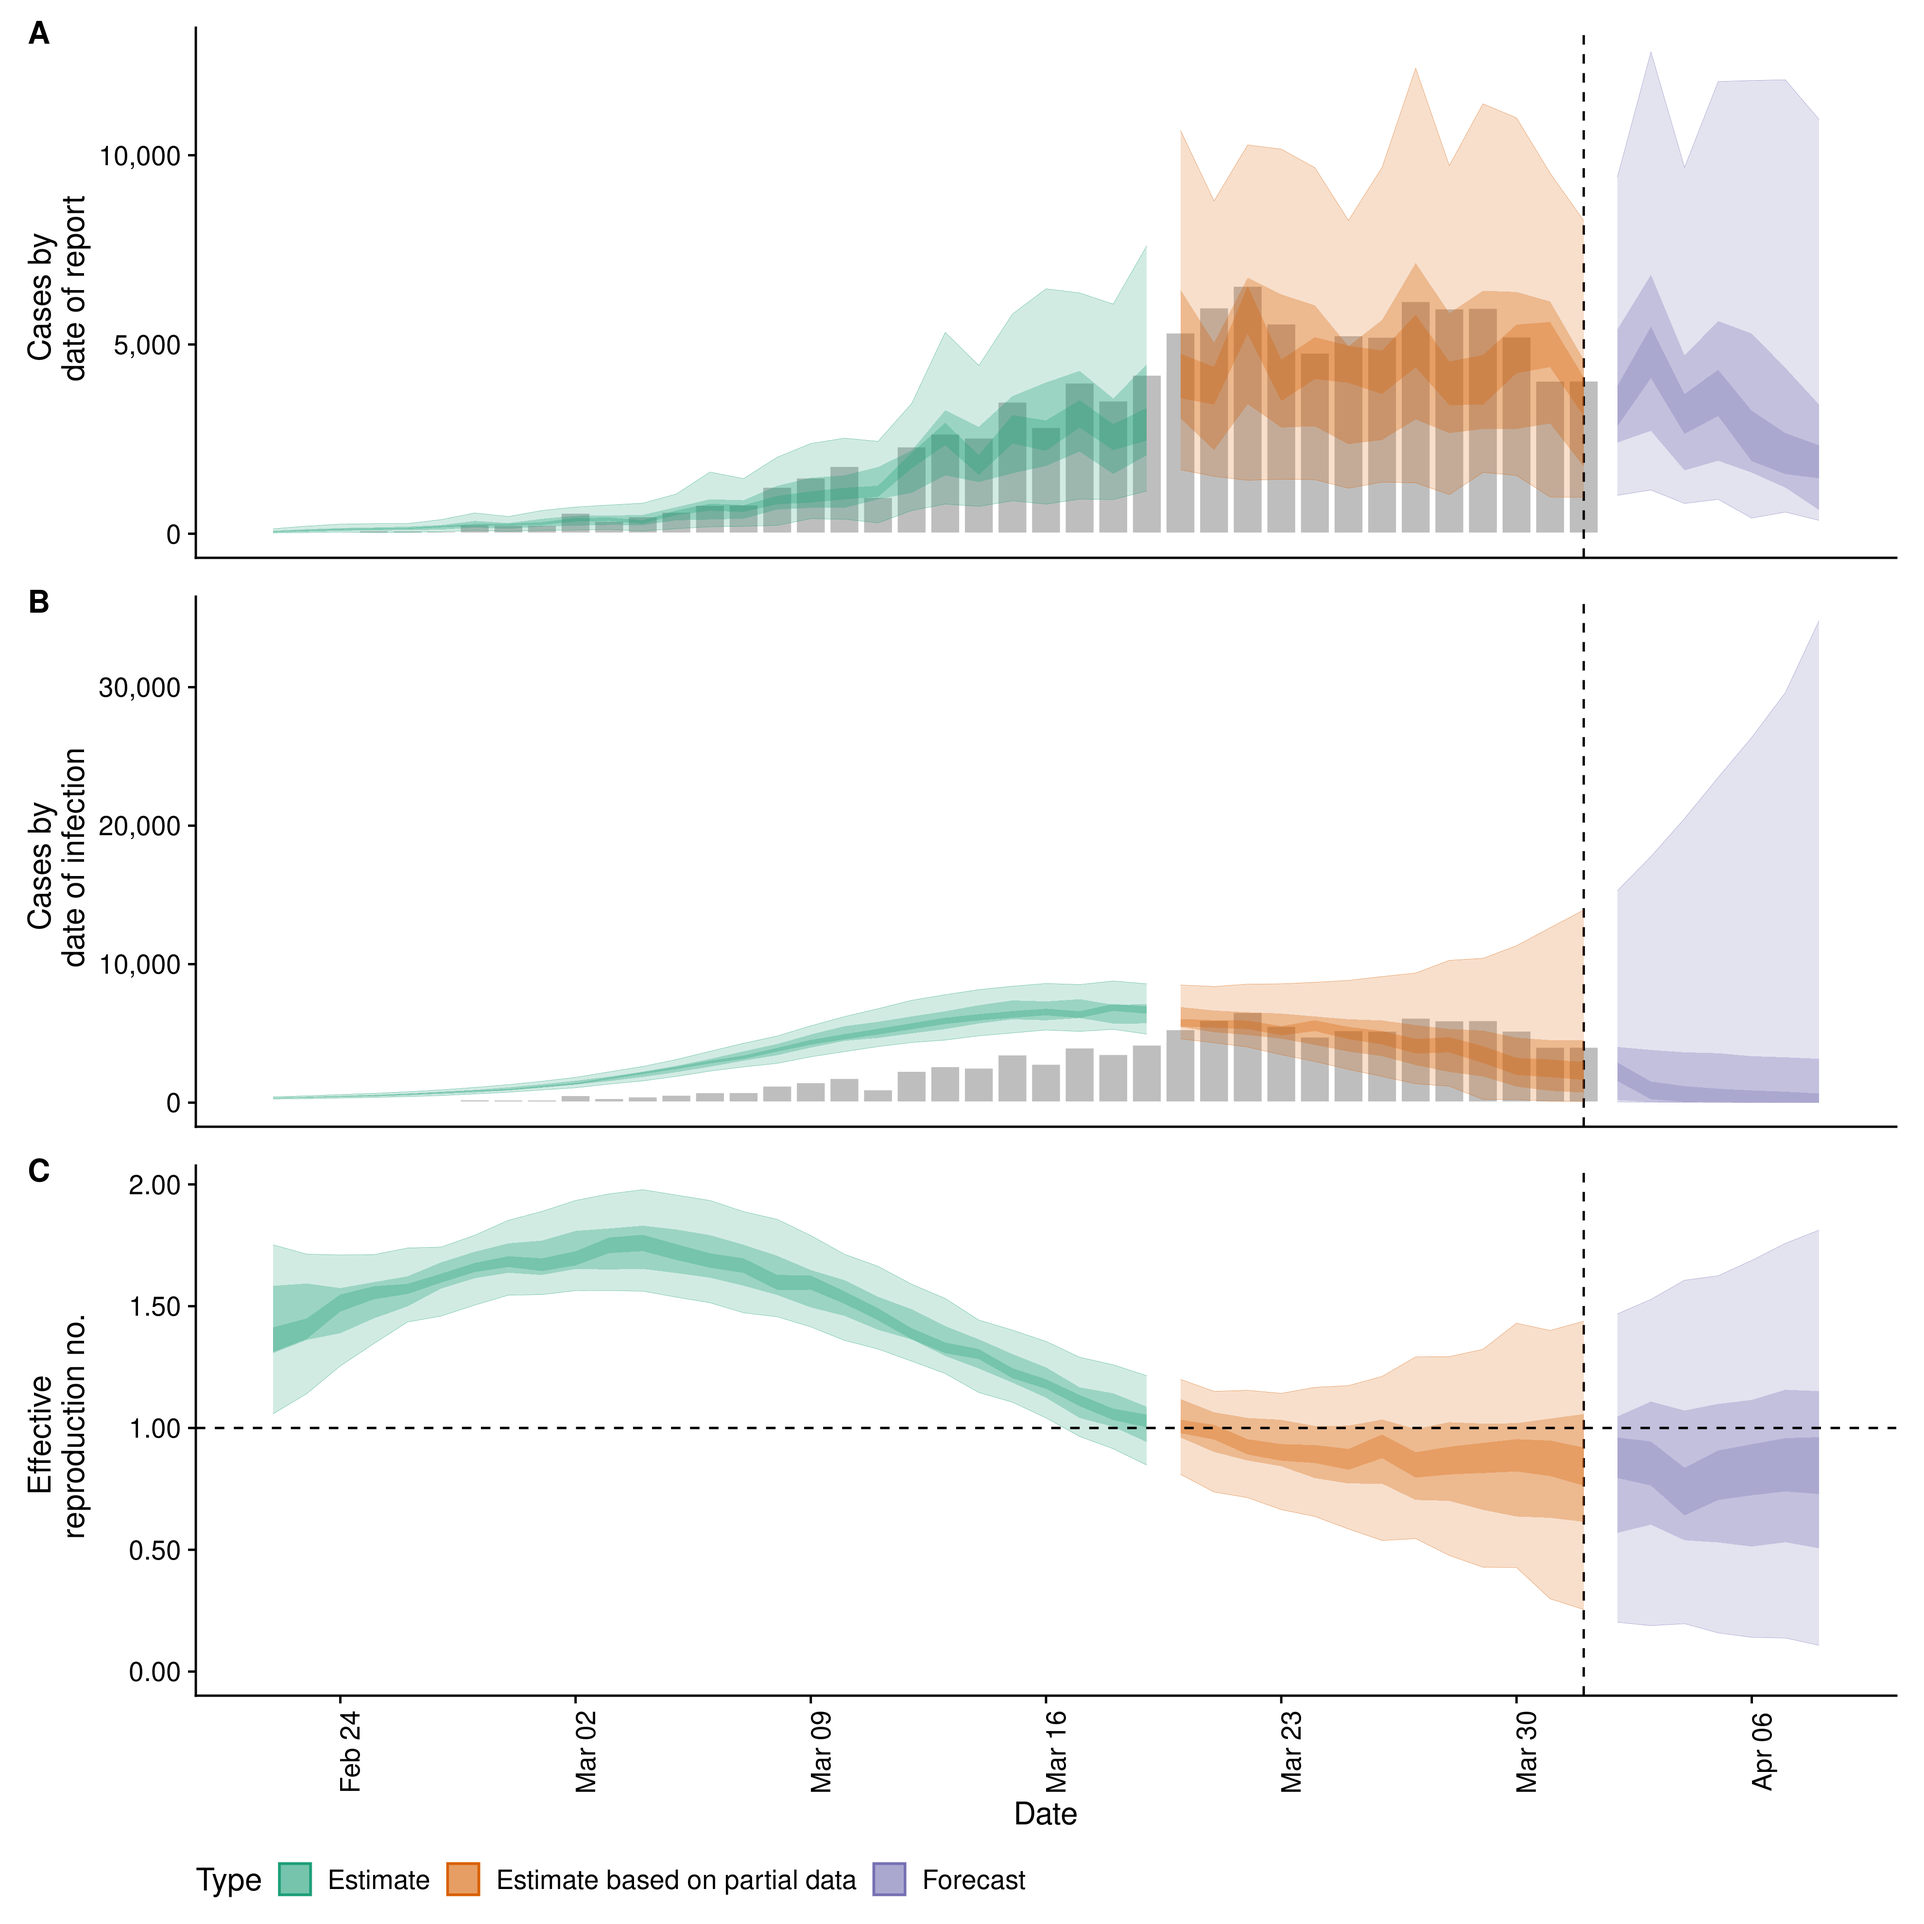
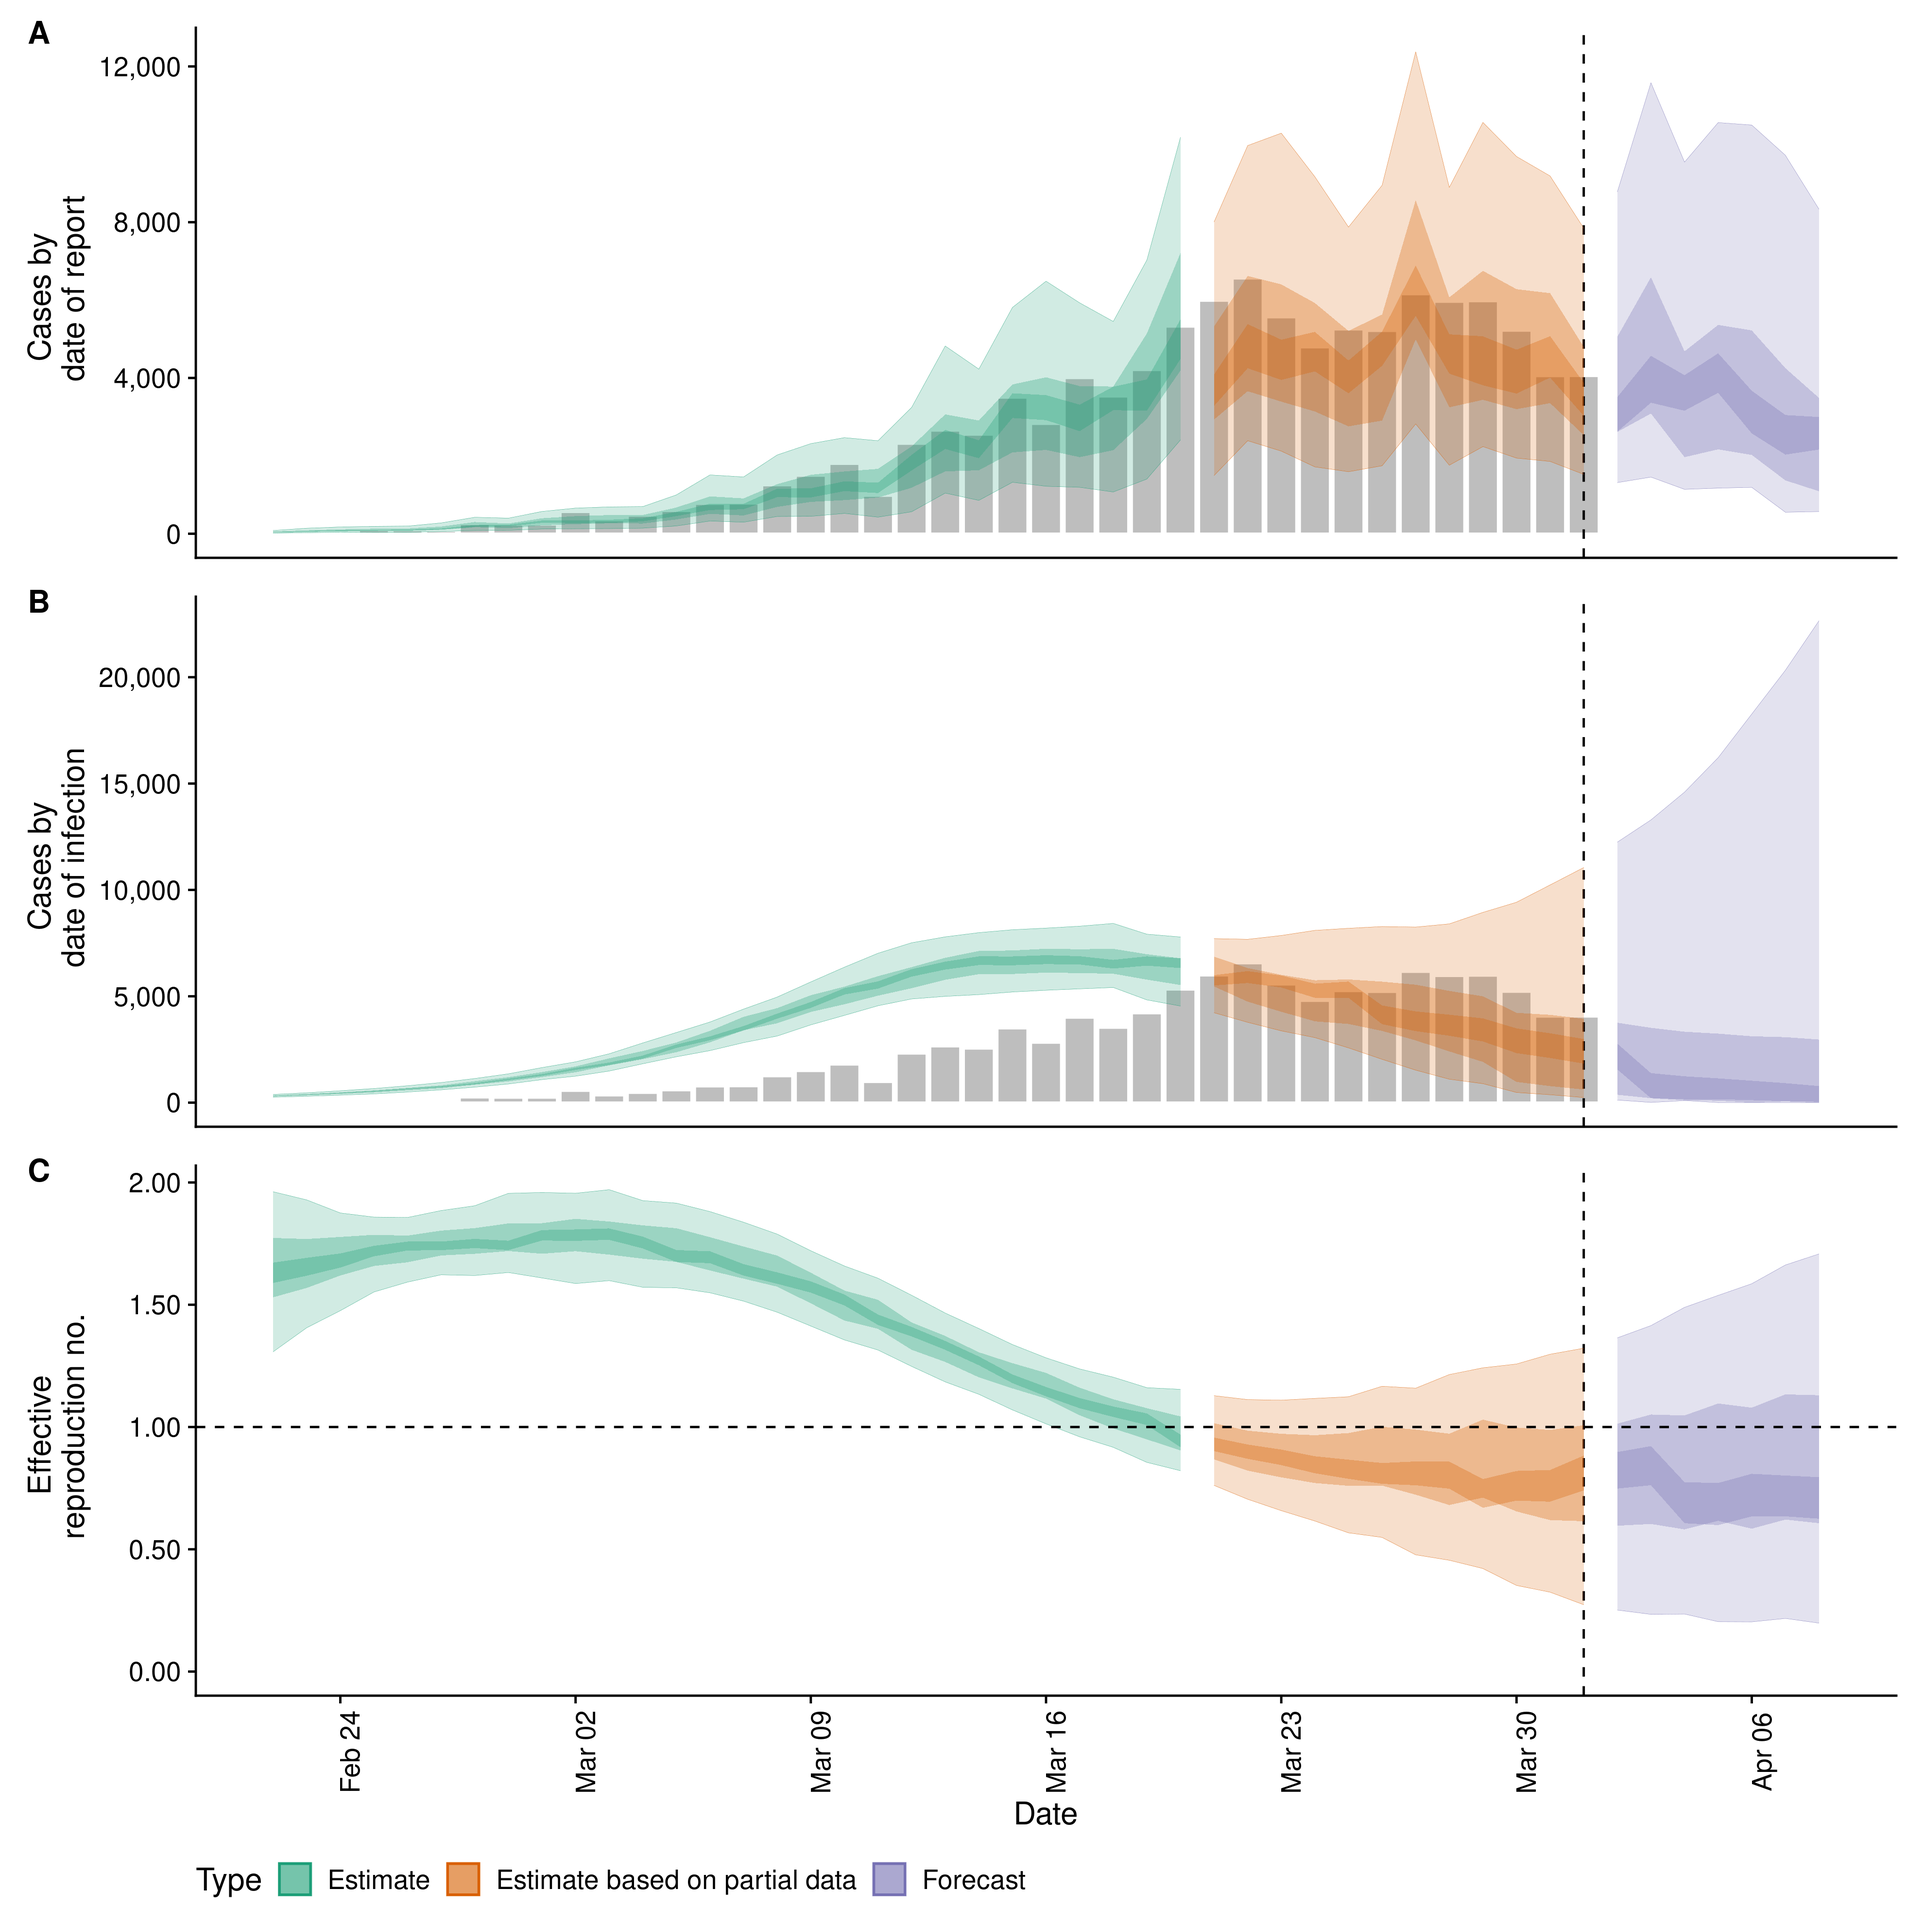
further snagging

diff --git a/README.md b/README.md
@@ -149,16 +149,16 @@ incubation period followed by a reporting delay.
 reporting_delay <- bootstrapped_dist_fit(rlnorm(100, log(4), 1), max_value = 30)
 reporting_delay
 #> $mean
-#> [1] 1.23124
+#> [1] 1.350997
 #> 
 #> $mean_sd
-#> [1] 0.207527
+#> [1] 0.159539
 #> 
 #> $sd
-#> [1] 1.251574
+#> [1] 1.100183
 #> 
 #> $sd_sd
-#> [1] 0.1490723
+#> [1] 0.1105245
 #> 
 #> $max
 #> [1] 30
@@ -223,27 +223,27 @@ parameters in an easily explored format.
 ``` r
 head(estimates$estimates$samples)
 #>      variable  parameter time       date sample     value strat     type
-#> 1: infections infections    1 2020-02-09      1  1.586815  <NA> estimate
-#> 2: infections infections    2 2020-02-10      1 10.233821  <NA> estimate
-#> 3: infections infections    3 2020-02-11      1 18.990405  <NA> estimate
-#> 4: infections infections    4 2020-02-12      1 40.208905  <NA> estimate
-#> 5: infections infections    5 2020-02-13      1 49.278218  <NA> estimate
-#> 6: infections infections    6 2020-02-14      1 62.465244  <NA> estimate
+#> 1: infections infections    1 2020-02-10      1  1.927029  <NA> estimate
+#> 2: infections infections    2 2020-02-11      1 12.423668  <NA> estimate
+#> 3: infections infections    3 2020-02-12      1 19.186168  <NA> estimate
+#> 4: infections infections    4 2020-02-13      1 24.401000  <NA> estimate
+#> 5: infections infections    5 2020-02-14      1 44.337476  <NA> estimate
+#> 6: infections infections    6 2020-02-15      1 55.686685  <NA> estimate
 head(estimates$estimates$summarised)
 #>          date variable strat     type   bottom      top    lower    upper
-#> 1: 2020-02-22        R  <NA> estimate 1.058031 1.751879 1.307469 1.583298
-#> 2: 2020-02-23        R  <NA> estimate 1.140746 1.713720 1.361510 1.593086
-#> 3: 2020-02-24        R  <NA> estimate 1.254670 1.710288 1.389026 1.574188
-#> 4: 2020-02-25        R  <NA> estimate 1.346645 1.711688 1.450019 1.598619
-#> 5: 2020-02-26        R  <NA> estimate 1.434951 1.739109 1.499029 1.622618
-#> 6: 2020-02-27        R  <NA> estimate 1.459485 1.742570 1.572503 1.679915
+#> 1: 2020-02-22        R  <NA> estimate 1.307502 1.962194 1.530423 1.773185
+#> 2: 2020-02-23        R  <NA> estimate 1.405941 1.928722 1.568768 1.768754
+#> 3: 2020-02-24        R  <NA> estimate 1.475787 1.875317 1.619527 1.777184
+#> 4: 2020-02-25        R  <NA> estimate 1.552148 1.858453 1.658480 1.785947
+#> 5: 2020-02-26        R  <NA> estimate 1.592603 1.857001 1.673682 1.782719
+#> 6: 2020-02-27        R  <NA> estimate 1.622465 1.885298 1.701551 1.803220
 #>    central_lower central_upper   median     mean         sd
-#> 1:      1.311898      1.412946 1.413359 1.413153 0.20944601
-#> 2:      1.365350      1.449425 1.447821 1.450017 0.17396365
-#> 3:      1.477943      1.547764 1.491011 1.491027 0.14125470
-#> 4:      1.528474      1.581508 1.537446 1.534821 0.11342461
-#> 5:      1.550220      1.591678 1.576984 1.579744 0.09386760
-#> 6:      1.596727      1.633344 1.621115 1.623895 0.08602103
+#> 1:      1.589120      1.672091 1.638275 1.644146 0.20190887
+#> 2:      1.618665      1.691963 1.663261 1.663283 0.15915962
+#> 3:      1.652050      1.709661 1.685909 1.684769 0.12275307
+#> 4:      1.698117      1.741081 1.710975 1.707469 0.09560944
+#> 5:      1.721932      1.758229 1.732138 1.730060 0.08141700
+#> 6:      1.723187      1.758318 1.750165 1.751091 0.08082206
 ```
 
 Reported cases are returned separately in order to ease reporting of
@@ -252,47 +252,42 @@ forecasts and model evaluation.
 ``` r
 head(estimates$estimated_reported_cases$samples)
 #>          date sample cases  type
-#> 1: 2020-02-22      1    56 gp_rt
-#> 2: 2020-02-23      1   159 gp_rt
-#> 3: 2020-02-24      1    28 gp_rt
-#> 4: 2020-02-25      1    50 gp_rt
-#> 5: 2020-02-26      1    87 gp_rt
-#> 6: 2020-02-27      1   169 gp_rt
+#> 1: 2020-02-22      1    48 gp_rt
+#> 2: 2020-02-23      1    63 gp_rt
+#> 3: 2020-02-24      1    66 gp_rt
+#> 4: 2020-02-25      1   154 gp_rt
+#> 5: 2020-02-26      1   173 gp_rt
+#> 6: 2020-02-27      1   198 gp_rt
 head(estimates$estimated_reported_cases$summarised)
 #>          date  type bottom top lower upper central_lower central_upper median
-#> 1: 2020-02-22 gp_rt     20 132    37    80            42            57     72
-#> 2: 2020-02-23 gp_rt     31 201    50   118            75            99    106
-#> 3: 2020-02-24 gp_rt     43 255    74   150           102           128    128
-#> 4: 2020-02-25 gp_rt     32 266    83   167           114           142    142
-#> 5: 2020-02-26 gp_rt     36 270    96   188           121           153    148
-#> 6: 2020-02-27 gp_rt     56 373   107   228           167           210    199
-#>       mean        sd
-#> 1:  78.026  38.64825
-#> 2: 116.256  57.31825
-#> 3: 142.729  71.89857
-#> 4: 156.477  76.90230
-#> 5: 161.485  80.81253
-#> 6: 216.551 111.46883
+#> 1: 2020-02-22 gp_rt     14  84    27    54            44            53   49.0
+#> 2: 2020-02-23 gp_rt     27 142    45    86            55            70   78.0
+#> 3: 2020-02-24 gp_rt     38 174    61   110            74            91   97.0
+#> 4: 2020-02-25 gp_rt     33 190    69   127            74            94  107.0
+#> 5: 2020-02-26 gp_rt     35 197    70   134            84           106  115.0
+#> 6: 2020-02-27 gp_rt     59 278   102   184           105           135  161.5
+#>       mean       sd
+#> 1:  52.477 24.88443
+#> 2:  82.847 35.81293
+#> 3: 102.704 42.63029
+#> 4: 116.655 54.59431
+#> 5: 124.161 52.88046
+#> 6: 170.703 72.65797
 ```
 
 A summary table is returned for rapidly understanding the results and
 for reporting purposes.
 
 ``` r
-estimates$summary
-#>                                  measure              estimate
-#> 1: New confirmed cases by infection date    4008 (80 -- 13909)
-#> 2:        Expected change in daily cases                Unsure
-#> 3:            Effective reproduction no.      0.9 (0.3 -- 1.4)
-#> 4:                        Rate of growth -0.04 (-0.22 -- 0.13)
-#> 5:          Doubling/halving time (days)   -18.4 (5.5 -- -3.1)
-#>     numeric_estimate
-#> 1: <data.table[1x7]>
-#> 2:              0.66
-#> 3: <data.table[1x7]>
-#> 4: <data.table[1x7]>
-#> 5: <data.table[1x3]>
+knitr::kable(estimates$summary[-ncol(estimates$summary)])
 ```
+
+| measure                               | estimate             | numeric\_estimate                              |
+| :------------------------------------ | :------------------- | :--------------------------------------------- |
+| New confirmed cases by infection date | 3740 (241 – 11052)   | 3740, 241, 11052, 615, 3940, 1835, 2993        |
+| Expected change in daily cases        | Unsure               | 0.69                                           |
+| Rate of growth                        | \-0.05 (-0.2 – 0.11) | \-0.05, -0.20, 0.11, -0.11, 0.00, -0.09, -0.05 |
+| Doubling/halving time (days)          | \-14.8 (6.3 – -3.5)  | \-14.8, 6.3, -3.5                              |
 
 A range of plots are returned (with the single summary plot shown
 below).
@@ -331,17 +326,17 @@ estimates <- regional_epinow(reported_cases = reported_cases,
                              generation_time = generation_time,
                              delays = list(incubation_period, reporting_delay),
                              stan_args = list(cores = 4))
-#> INFO [2020-10-08 22:11:02] Producing following outputs: regions, summary, samples, plots, timings
-#> INFO [2020-10-08 22:11:02] Reporting estimates using data up to: 2020-04-01
-#> INFO [2020-10-08 22:11:02] Producing estimates for: testland, realland
-#> INFO [2020-10-08 22:11:02] Regions excluded: none
-#> INFO [2020-10-08 22:11:02] Showing progress using progressr. Modify this behaviour using progressr::handlers.
-#> INFO [2020-10-08 22:16:44] Completed estimates for: testland
-#> INFO [2020-10-08 22:22:01] Completed estimates for: realland
-#> INFO [2020-10-08 22:22:01] Completed regional estimates
-#> INFO [2020-10-08 22:22:01] Regions with estimates: 2
-#> INFO [2020-10-08 22:22:01] Regions with runtime errors: 0
-#> INFO [2020-10-08 22:22:01] Producing summary
+#> INFO [2020-10-08 23:02:21] Producing following outputs: regions, summary, samples, plots, timings
+#> INFO [2020-10-08 23:02:21] Reporting estimates using data up to: 2020-04-01
+#> INFO [2020-10-08 23:02:21] Producing estimates for: testland, realland
+#> INFO [2020-10-08 23:02:21] Regions excluded: none
+#> INFO [2020-10-08 23:02:21] Showing progress using progressr. Modify this behaviour using progressr::handlers.
+#> INFO [2020-10-08 23:07:45] Completed estimates for: testland
+#> INFO [2020-10-08 23:13:20] Completed estimates for: realland
+#> INFO [2020-10-08 23:13:20] Completed regional estimates
+#> INFO [2020-10-08 23:13:20] Regions with estimates: 2
+#> INFO [2020-10-08 23:13:20] Regions with runtime errors: 0
+#> INFO [2020-10-08 23:13:20] Producing summary
 ```
 
 Results from each region are stored in a `regional` list with across
@@ -364,8 +359,8 @@ knitr::kable(estimates$summary$summarised_results$table)
 
 | Region   | New confirmed cases by infection date | Expected change in daily cases | Effective reproduction no. | Rate of growth        | Doubling/halving time (days) |
 | :------- | :------------------------------------ | :----------------------------- | :------------------------- | :-------------------- | :--------------------------- |
-| realland | 4253 (111 – 12808)                    | Unsure                         | 0.9 (0.3 – 1.5)            | \-0.04 (-0.23 – 0.12) | \-18.3 (5.9 – -3)            |
-| testland | 4095 (117 – 13274)                    | Unsure                         | 0.9 (0.3 – 1.4)            | \-0.04 (-0.21 – 0.12) | \-19 (6 – -3.3)              |
+| realland | 3770 (101 – 10695)                    | Unsure                         | 0.8 (0.3 – 1.4)            | \-0.04 (-0.21 – 0.11) | \-15.7 (6.2 – -3.3)          |
+| testland | 3606 (63 – 10457)                     | Unsure                         | 0.8 (0.3 – 1.4)            | \-0.05 (-0.21 – 0.12) | \-14.6 (5.9 – -3.3)          |
 
 A range of plots are again returned (with the single summary plot shown
 below).
